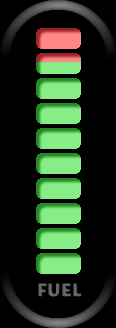
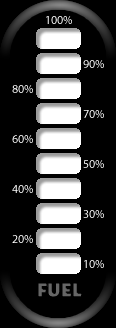
Melhoramentos exibicao fuel

diff --git a/css/style.css b/css/style.css
@@ -54,20 +54,39 @@ html, body {
     display: block;
 }
 
-#barraLateral #infos #fuel {
+#barraLateral #infos #contentFuel {
     position: relative;
     float: left;
-    width: 15%;
-    height: 200px;
+    width: 116px;
+    height: 328px;
     display: block;
+    margin-left: 14px;
     background-color: red;
 }
 
-#barraLateral #infos #barFuel {
+#barraLateral #infos #contentFuel #fuel {
+    position: relative;
+    float: left;
+    width: 116px;
+    height: 246px;
+    display: block;
+    margin-top: 28px;
+    background-color: red;
+}
+
+#barraLateral #infos #contentFuel #fuel #barFuel {
     position: absolute;
     width: 100%;
     bottom: 0px;
     background-color: green;
+}
+
+#barraLateral #infos #contentFuel #maskFuel {
+    position: absolute;
+    width: 116px;
+    height: 328px;
+    background-image: url('../images/interface/fuel.png');
+    z-index: 10;
 }
 
 .objects {

diff --git a/game.html b/game.html
@@ -26,8 +26,9 @@
                 <div id="pontos">0 Pontos</div>
                 <div id="vidas"></div>
                 <div id="cash">$ 0000</div>
-                <div id="fuel">
-                    <div id="barFuel"></div>
+                <div id="contentFuel">
+                    <div id="fuel"><div id="barFuel"></div></div>
+                    <div id="maskFuel"></div>
                 </div>
             </div>
         </div>

diff --git a/js/game.js b/js/game.js
@@ -79,7 +79,7 @@ function init(qtdVidas, valorVelocidade){
         $('<div>').prependTo('#vidas').addClass('vida').attr('id','vida_'+i);
     }
     //setando gasolina
-    varFuel(90);
+    varFuel(80);
     //setando velocidade
     velocidade = valorVelocidade;
     //tamanho palco
